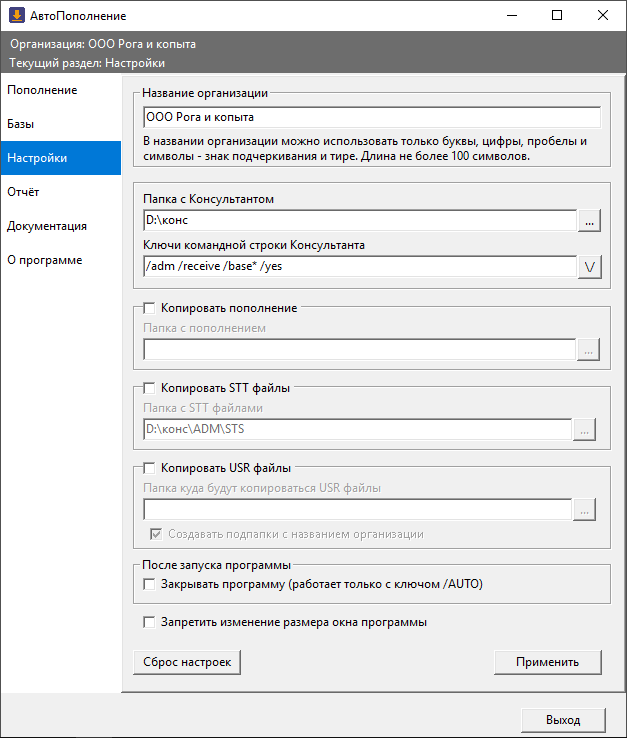
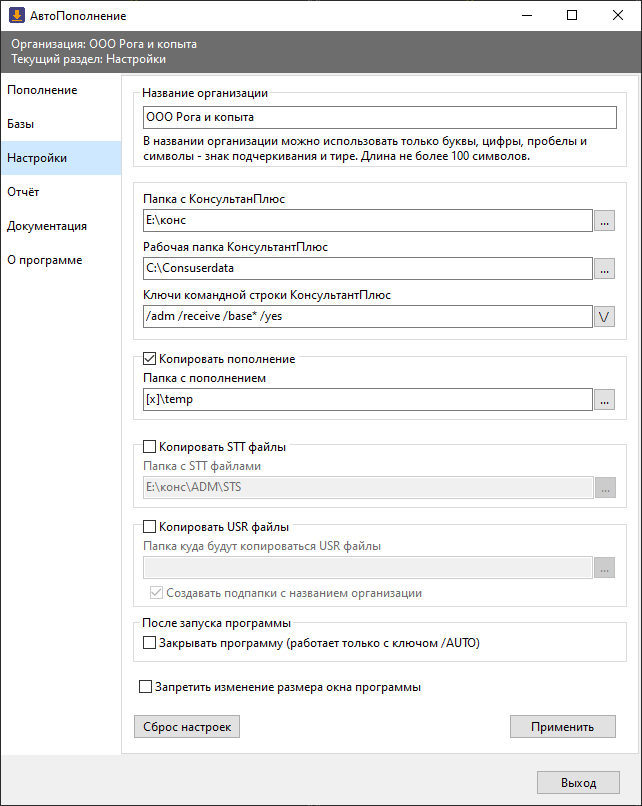
Update

Changed region(s): [[0.0, 0.0, 1.0, 1.0], [0.0, 0.9973, 0.1212, 1.0]]

diff --git a/docs/autopopoln.html b/docs/autopopoln.html
@@ -42,7 +42,7 @@
 	<div class="row featurette">
 	  <div class="col-md-7 order-md-2">
 		<p>При первом запуске откроется вкладка "Настройки". Программа попытается автоматически найти где установлен ©КонсультантПлюс. Она ищет в "C:\Consultant" и если не находит, ищет ярлык с Консультантом на рабочем столе из которого берёт путь к папке. Если программа не найдет Консультант, иожно указать вручную папку с Консультантом нажав кнопку <kbd>...</kbd></p>
-	   	<p>В настройках нужно ввести название организации, путь к папке с Консультантом, путь к папке с обновлениями, указать где находится STT файл и выбрать куда складывать STT и USR файлы.</p>
+	   	<p>В настройках нужно ввести название организации, путь к папке с Консультантом, путь к папке с обновлениями, путь к рабочей папке (по умолчанию "C:\ConsUserData"), указать где находится STT файл и выбрать куда складывать STT и USR файлы.</p>
 		<p>[x] - Вместо x подставляется буква диска с которого была запущена программа.</p>
 		<p>Параметр "Закрывать программу" нужен для того, чтобы при запуске с ключом /AUTO программа запускалась, выполняла все выбранные функции(копирует обновления, служебные файлы, запускает ©КонсультантПлюс с ключами для обновления) и закрывалась.</p>
 		<p>Также в настройках можно запретить изменение размера окна программы, по умолчанию параметр выключен.</p>
@@ -112,7 +112,7 @@
 	<!-- FOOTER -->
 	<footer class="container">
 	  <p class="float-right"><a href="#">Наверх</a></p>
-	  <p>&copy; 2017 ap-exe</p>
+	  <p>&copy; 2017 - 2019 ap-exe</p>
 	</footer>
 
     <!-- JavaScript

diff --git a/docs/editbases.html b/docs/editbases.html
@@ -78,7 +78,7 @@
 	<!-- FOOTER -->
 	<footer class="container">
 		<hr class="featurette-divider">
-	  <p>&copy; 2017 ap-exe</p>
+	  <p>&copy; 2017 - 2019 ap-exe</p>
 	</footer>
 
     <!-- JavaScript

diff --git a/docs/index.html b/docs/index.html
@@ -49,7 +49,7 @@
 	<!-- FOOTER -->
 	<footer class="container">
 		<hr class="featurette-divider">
-	  <p>&copy; 2017 ap-exe</p>
+	  <p>&copy; 2017 - 2019 ap-exe</p>
 	</footer>
 
     <!-- JavaScript
